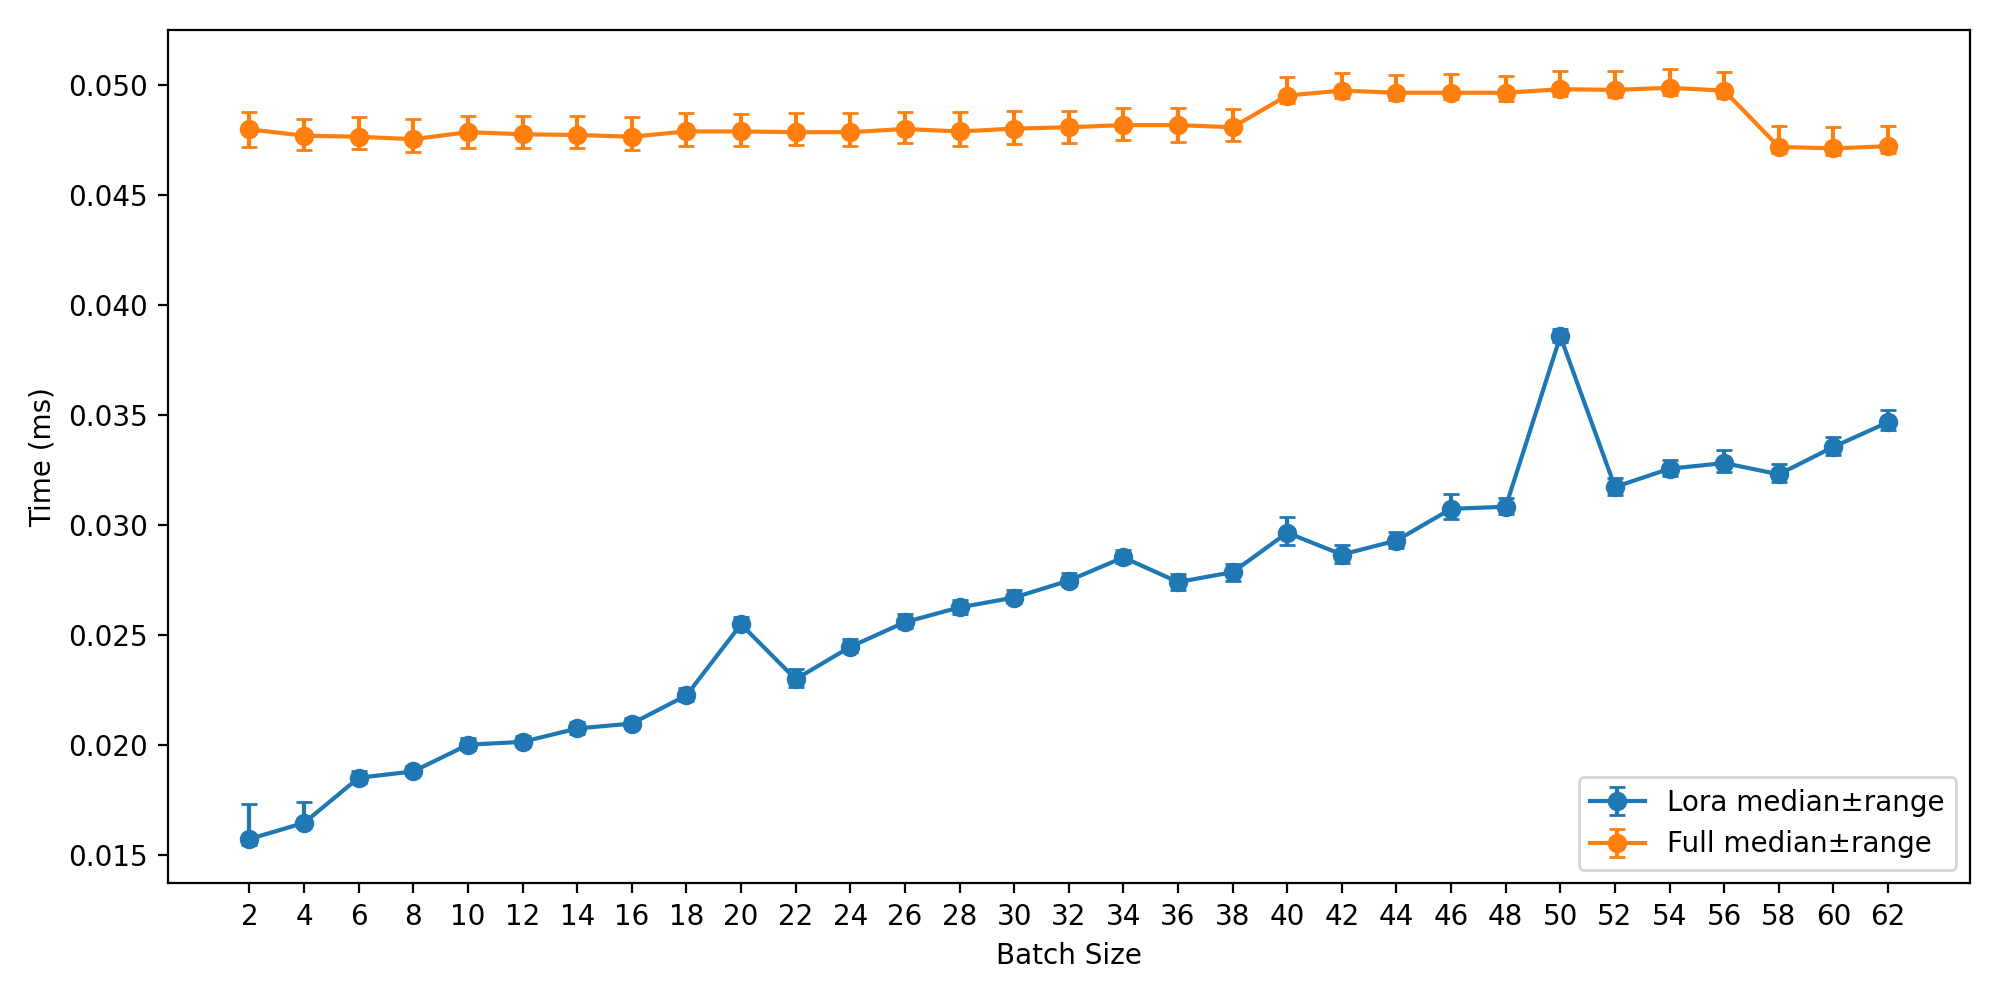
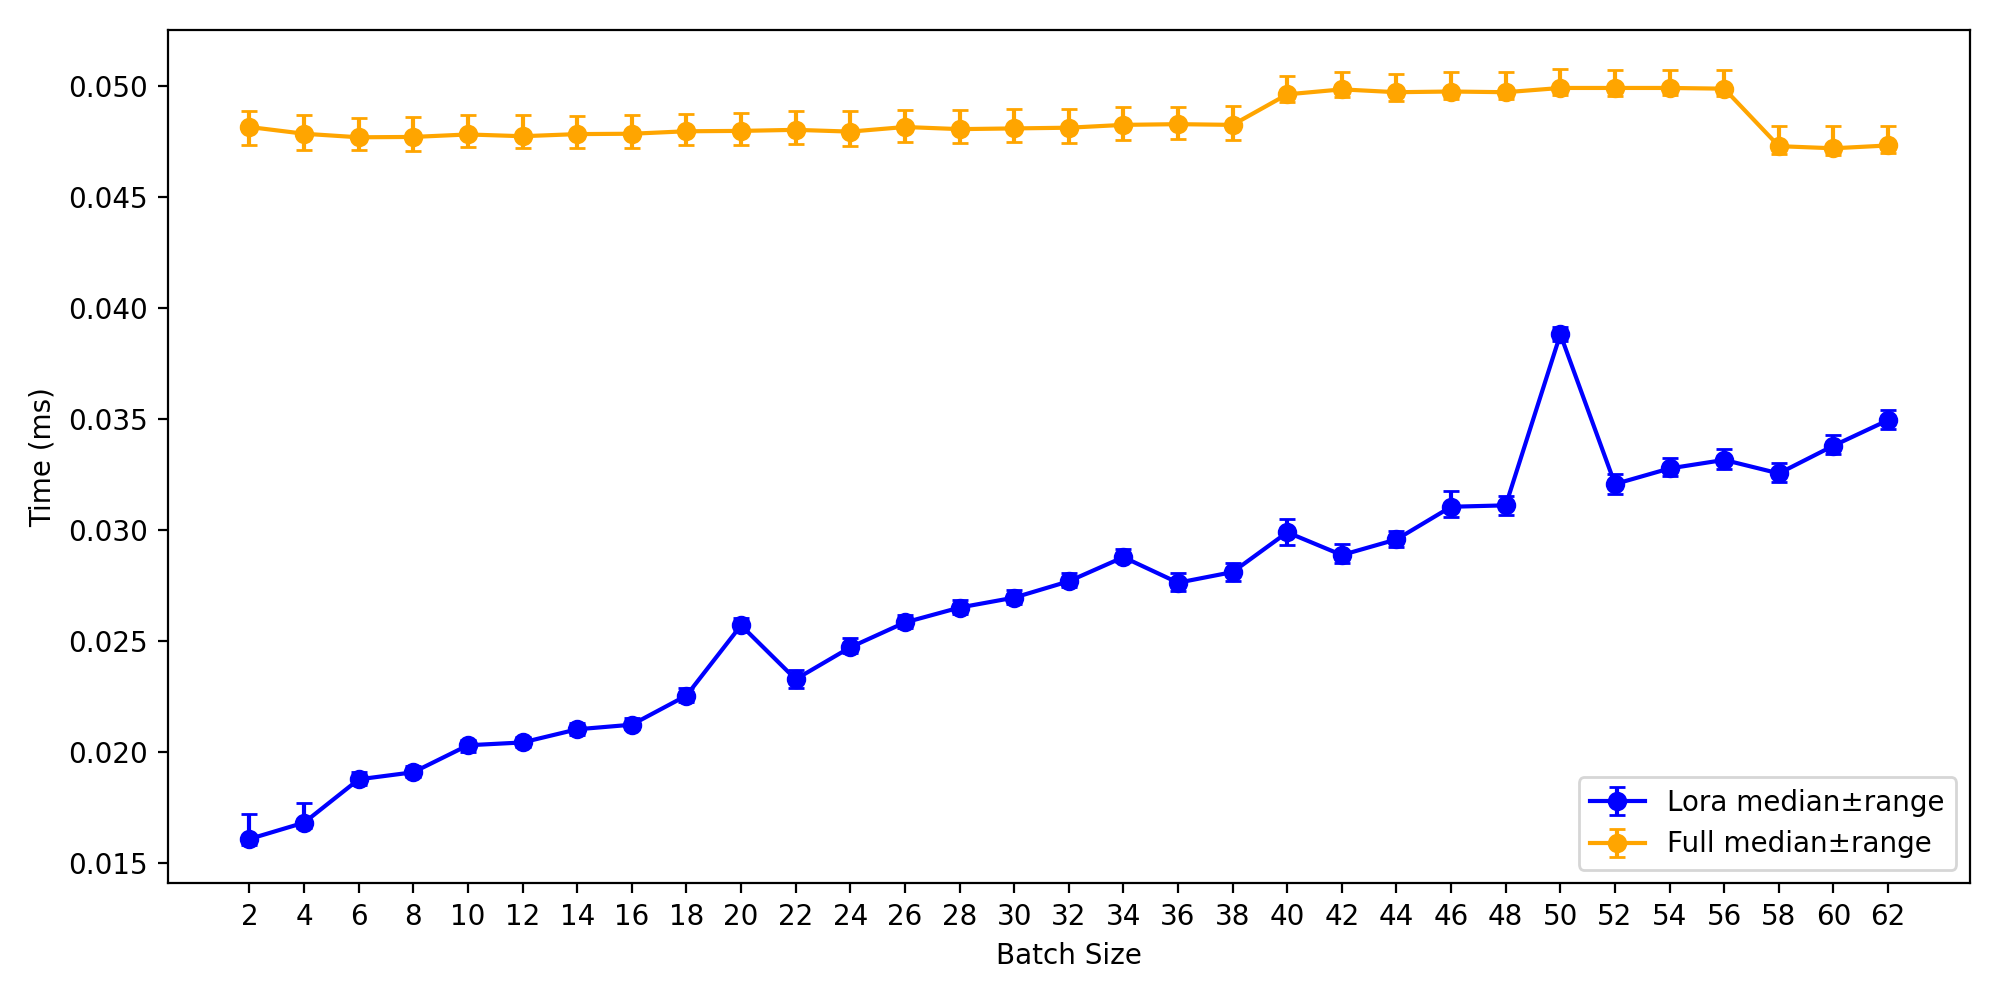
Add GBMM using index_select

diff --git a/multilora_inference/naive_mm_lora.py b/multilora_inference/naive_mm_lora.py
@@ -26,6 +26,18 @@ def lora_cheat_bmm(
     y += x @ cheat_A @ cheat_B
     return y
 
+def lora_gbmm(
+    y: torch.Tensor,        # [B, 1, out]
+    x: torch.Tensor,        # [B, 1, in]
+    A: torch.Tensor,        # [L, in, r]
+    B: torch.Tensor,        # [L, r, out]
+    I: torch.LongTensor,    # [B]
+):
+    A_grouped = torch.index_select(A, 0, I)
+    B_grouped = torch.index_select(B, 0, I)
+    y += x @ A_grouped @ B_grouped
+    return y
+
 def bench_lora(type: str):
     num_loras = 50
     r = 16
@@ -50,6 +62,8 @@ def bench_lora(type: str):
             timings.append(do_bench(lambda: lora_loop(y, x, A, B, I), quantiles=[0.5, 0.2, 0.8]))
         elif type == "cheat_bmm":
             timings.append(do_bench(lambda: lora_cheat_bmm(y, x, cheat_A, cheat_B), quantiles=[0.5, 0.2, 0.8]))
+        elif type == "gbmm":
+            timings.append(do_bench(lambda: lora_gbmm(y, x, A, B, I), quantiles=[0.5, 0.2, 0.8]))
         else:
             raise ValueError(f"Invalid type: {type}")
 
@@ -58,22 +72,28 @@ def bench_lora(type: str):
 if __name__ == "__main__":
     lora_loop_timings = bench_lora("loop")
     lora_cheat_bmm_timings = bench_lora("cheat_bmm")
+    lora_gbmm_timings = bench_lora("gbmm")
 
     plt.figure(figsize=(10, 5))
 
     la = np.asarray(lora_loop_timings)
-    x_lora = np.array(range(2, 64, 2))
+    x_lora_loop = np.array(range(2, 64, 2))
     yerr_lora = np.vstack([la[:, 0] - la[:, 1], la[:, 2] - la[:, 0]])
-    plt.errorbar(x_lora, la[:, 0], yerr=yerr_lora, fmt="-o", color="#1f77b4", capsize=3, label="Lora loop median±range")
+    plt.errorbar(x_lora_loop, la[:, 0], yerr=yerr_lora, fmt="-o", color="blue", capsize=3, label="Lora loop median±range")
 
-    fa = np.asarray(lora_cheat_bmm_timings)
-    x_full = np.array(range(2, 64, 2))
-    yerr_full = np.vstack([fa[:, 0] - fa[:, 1], fa[:, 2] - fa[:, 0]])
-    plt.errorbar(x_full, fa[:, 0], yerr=yerr_full, fmt="-o", color="#ff7f0e", capsize=3, label="Cheat BMM median±range")
+    lc = np.asarray(lora_cheat_bmm_timings)
+    x_lora_cheat_bmm = np.array(range(2, 64, 2))
+    yerr_full = np.vstack([lc[:, 0] - lc[:, 1], lc[:, 2] - lc[:, 0]])
+    plt.errorbar(x_lora_cheat_bmm, lc[:, 0], yerr=yerr_full, fmt="-o", color="orange", capsize=3, label="Cheat BMM median±range")
+
+    lg = np.asarray(lora_gbmm_timings)
+    x_lora_gbmm = np.array(range(2, 64, 2))
+    yerr_full = np.vstack([lg[:, 0] - lg[:, 1], lg[:, 2] - lg[:, 0]])
+    plt.errorbar(x_lora_gbmm, lg[:, 0], yerr=yerr_full, fmt="-o", color="red", capsize=3, label="GBMM median±range")
 
     plt.xlabel("Batch Size")
     plt.ylabel("Time (ms)")
-    plt.xticks(x_lora)
+    plt.xticks(x_lora_loop)
     plt.legend()
     plt.tight_layout()
-    plt.savefig("plots/lora_loop_vs_cheat_bmm.png", dpi=200)
+    plt.savefig("plots/lora_loop_vs_cheat_bmm_vs_gbmm.png", dpi=200)

diff --git a/multilora_inference/lora_vs_full_matmul.py b/multilora_inference/lora_vs_full_matmul.py
@@ -46,12 +46,12 @@ if __name__ == "__main__":
     la = np.asarray(lora_timings)
     x_lora = np.array(range(2, 64, 2))
     yerr_lora = np.vstack([la[:, 0] - la[:, 1], la[:, 2] - la[:, 0]])
-    plt.errorbar(x_lora, la[:, 0], yerr=yerr_lora, fmt="-o", color="#1f77b4", capsize=3, label="Lora median±range")
+    plt.errorbar(x_lora, la[:, 0], yerr=yerr_lora, fmt="-o", color="blue", capsize=3, label="Lora median±range")
 
     fa = np.asarray(full_timings)
     x_full = np.array(range(2, 64, 2))
     yerr_full = np.vstack([fa[:, 0] - fa[:, 1], fa[:, 2] - fa[:, 0]])
-    plt.errorbar(x_full, fa[:, 0], yerr=yerr_full, fmt="-o", color="#ff7f0e", capsize=3, label="Full median±range")
+    plt.errorbar(x_full, fa[:, 0], yerr=yerr_full, fmt="-o", color="orange", capsize=3, label="Full median±range")
 
     plt.xlabel("Batch Size")
     plt.ylabel("Time (ms)")
